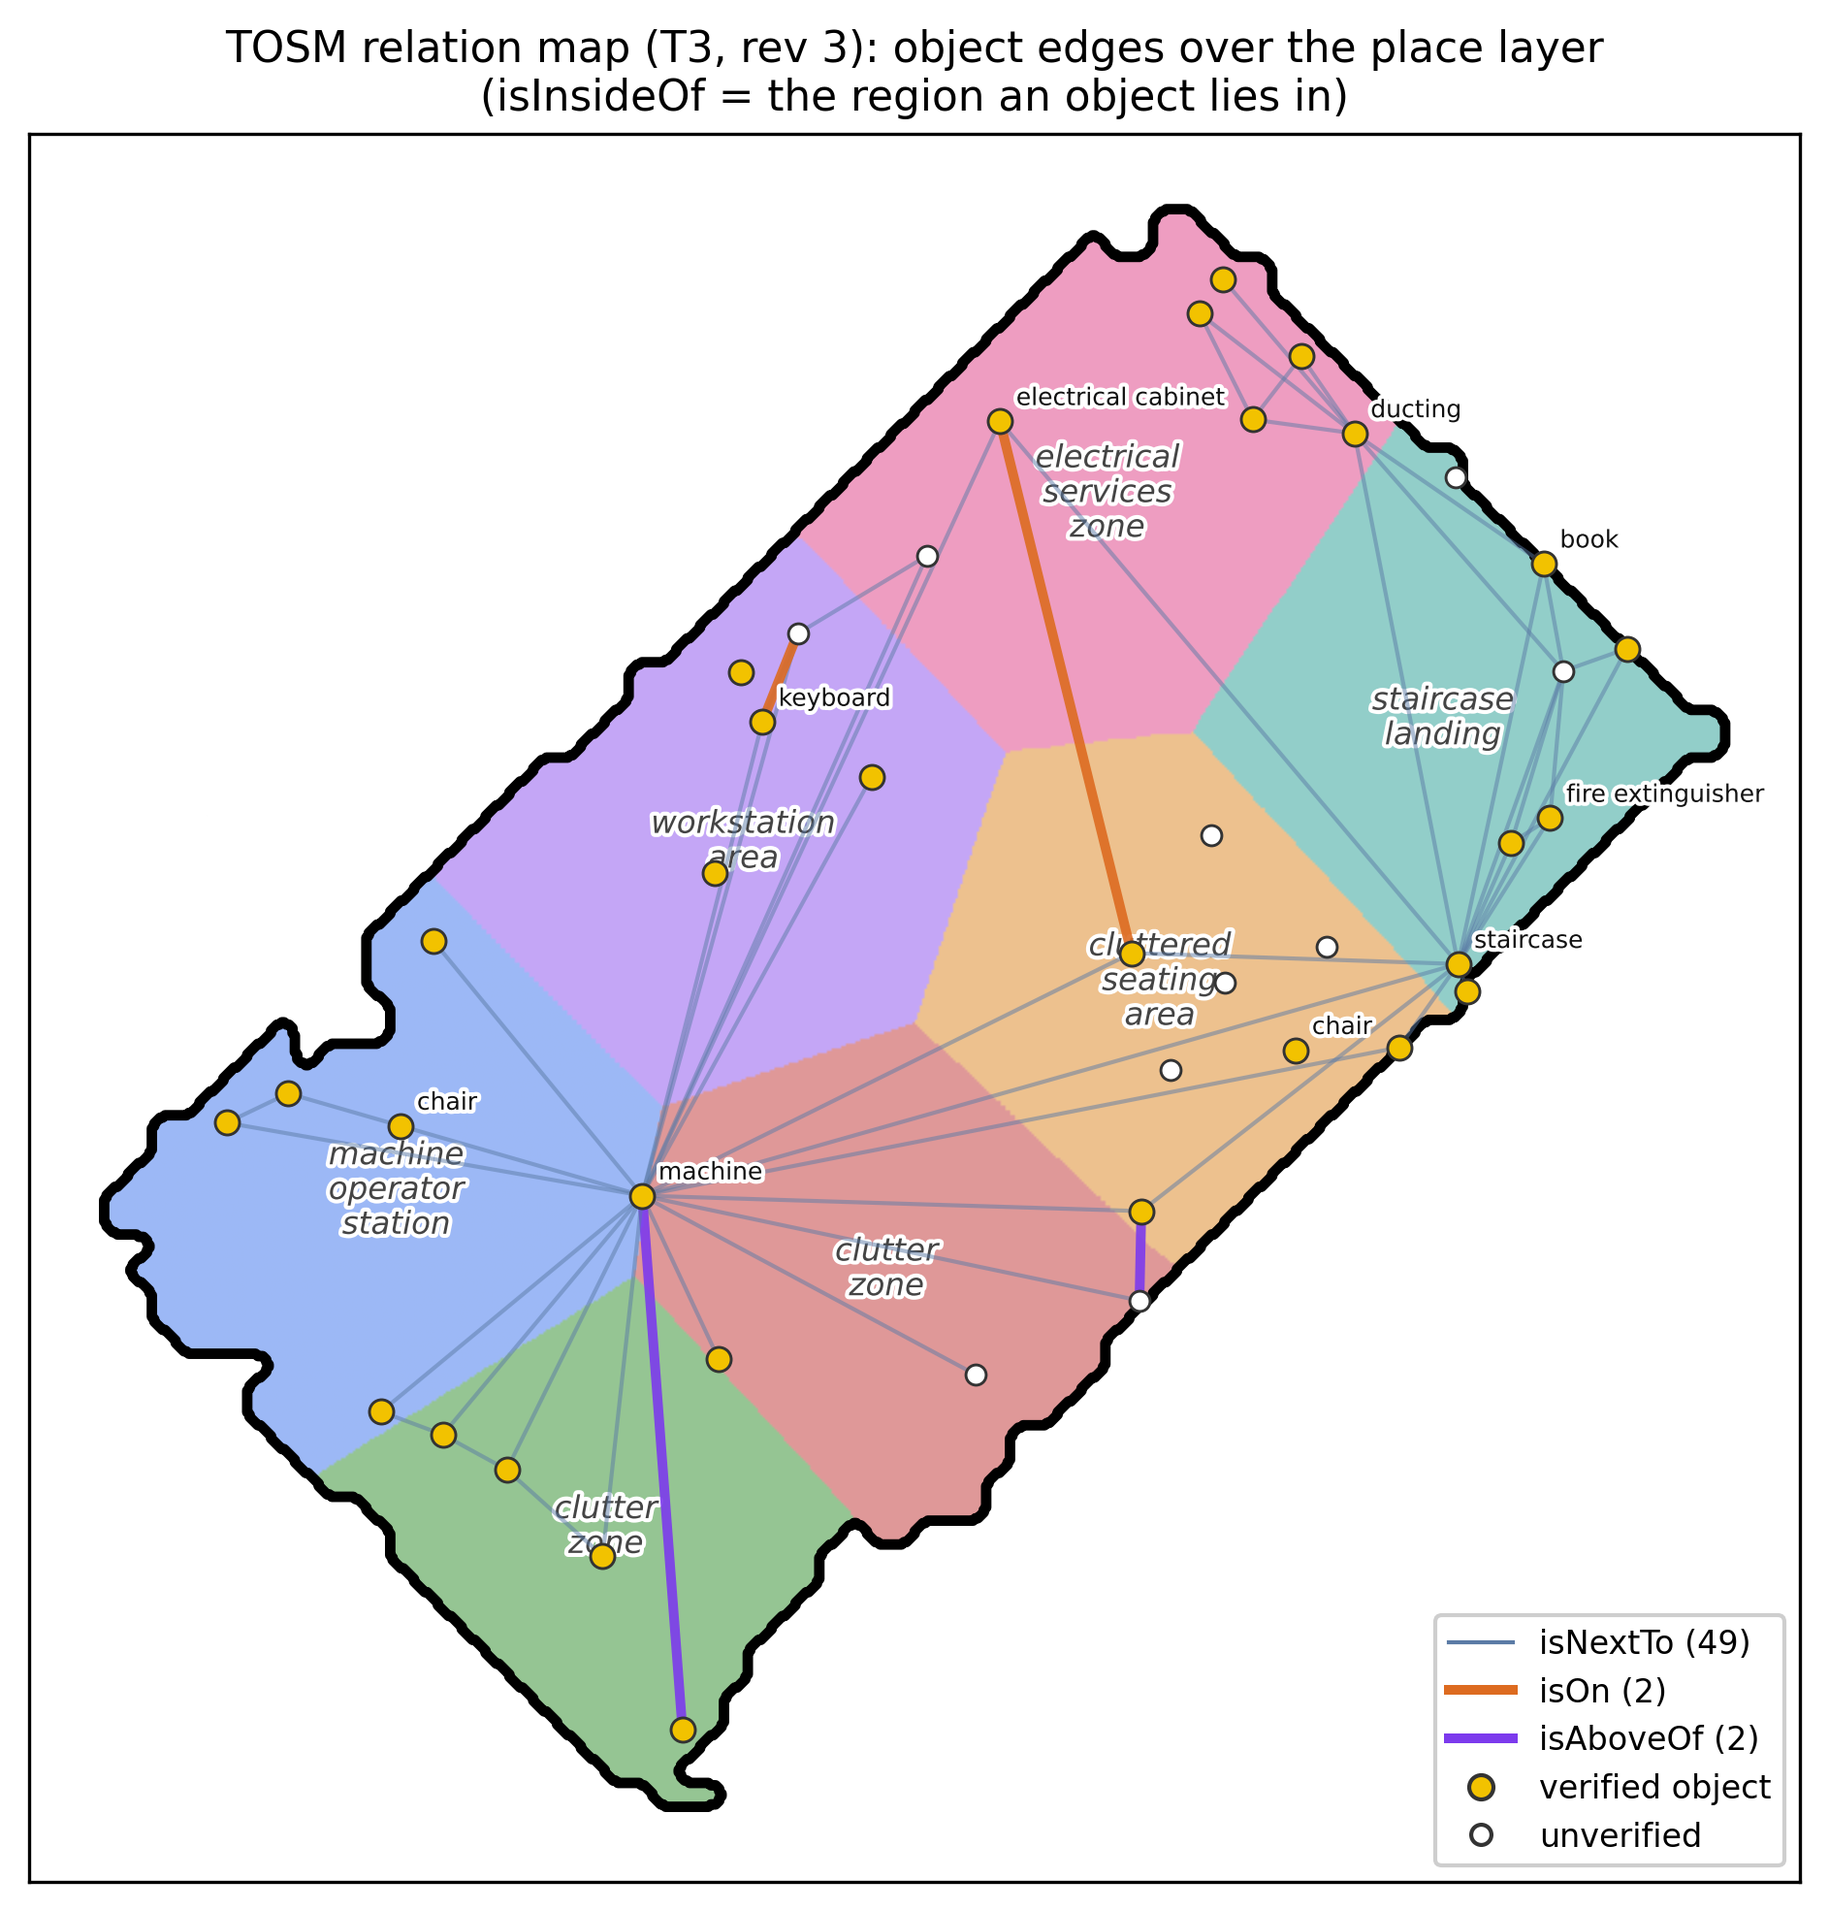
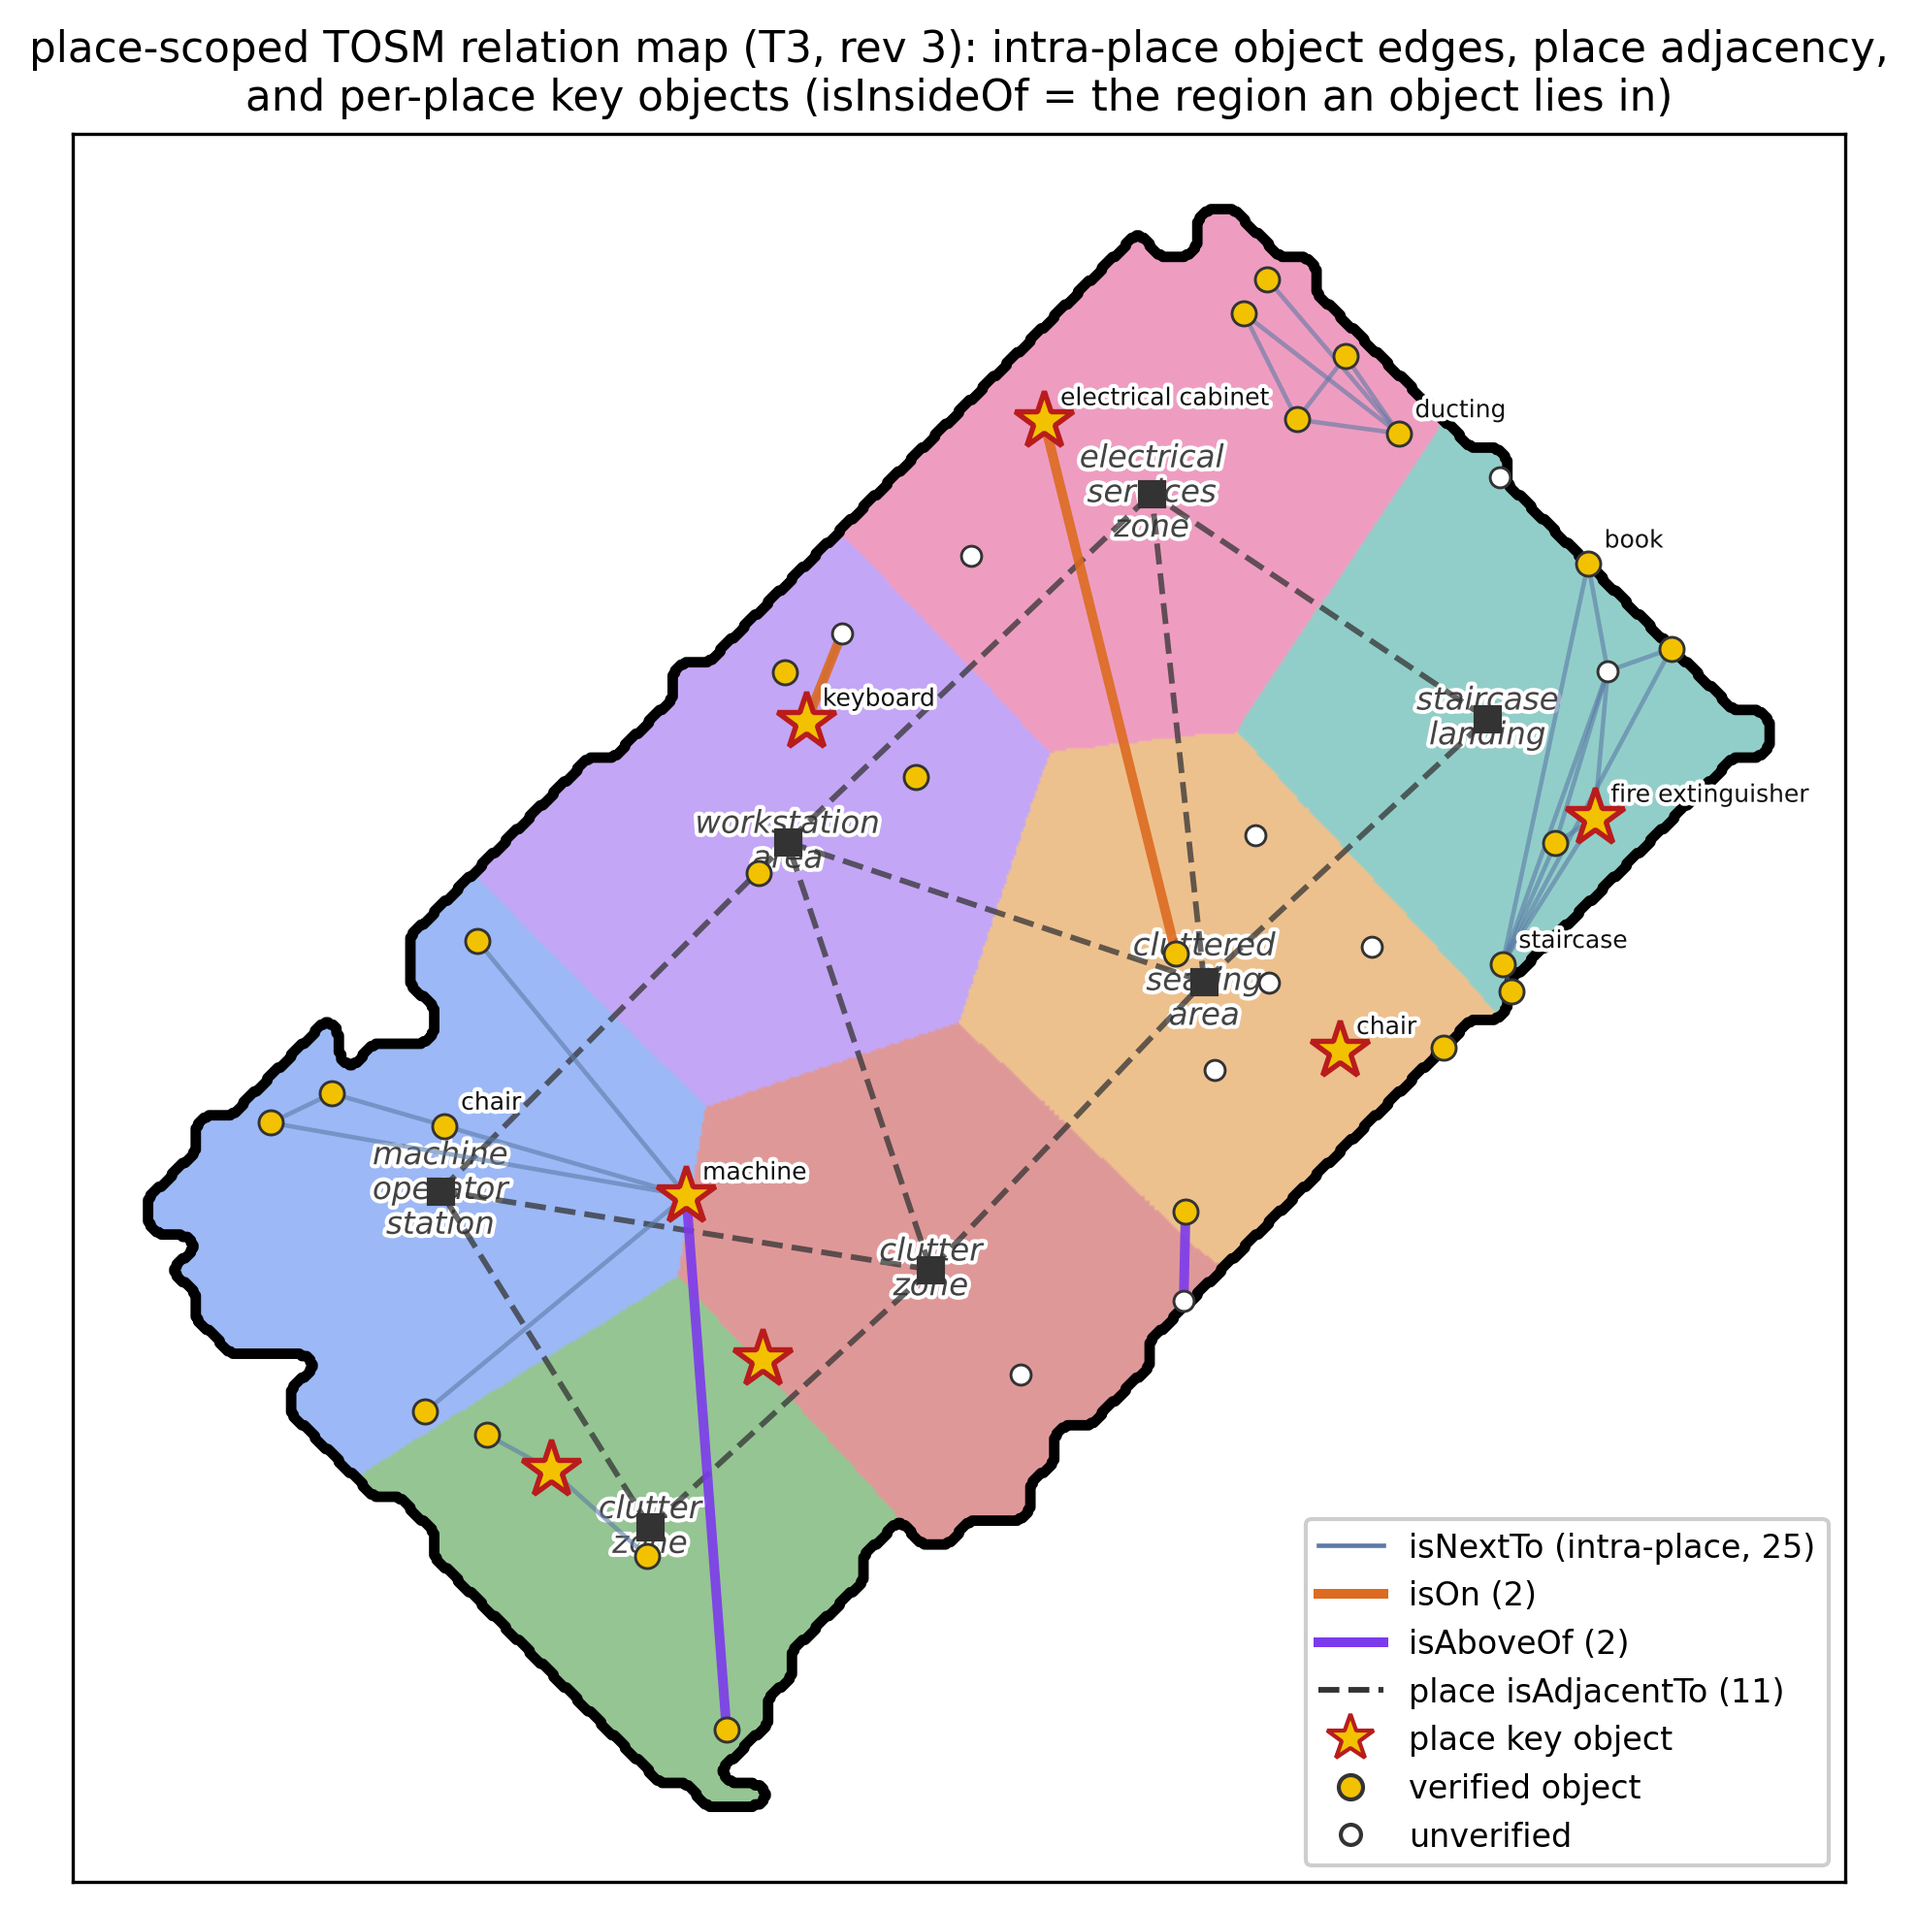
Place-scoped relations: intra-place isNextTo (25, drops 24 cross-place spokes), place isAdjacentTo (11), per-place key objects; fig12 v3 + 4.6 text

diff --git a/docs/electronics2026/manuscript/sec4_methodology.tex b/docs/electronics2026/manuscript/sec4_methodology.tex
@@ -181,8 +181,16 @@ provenance (per-view votes, fused share, escalation flag, model version), a
 per-revision history of every change, and \texttt{firstSeen}/\texttt{lastSeen}
 timestamps. Edges (spatial relations---\texttt{isNextTo}, \texttt{isOn},
 \texttt{isAboveOf}---recomputed from explicit models) are scoped to the map
-and revision; Fig.~\ref{fig:relmap} shows the resulting relation-annotated
-map at T3. The result is exported both as a canonical
+and revision, and organized by the place layer: \texttt{isNextTo} is kept
+only between objects of the same place (proximity across a place boundary
+is expressed at the place level as \texttt{isAdjacentTo}), vertical
+relations are kept regardless, and each place designates a key object
+(the VLM's implicit \texttt{isKeyObject} among verified members, falling
+back to the most confident specific-type verified member). On the T3
+epoch this scoping removes 24 of 49 raw proximity edges---long
+cross-place spokes centered on the largest cluster---leaving 25
+intra-place edges over 11 place adjacencies; Fig.~\ref{fig:relmap} shows
+the resulting map. The result is exported both as a canonical
 JSON graph and as mapId-scoped Neo4j Cypher, so multiple sites and epochs
 coexist in one database. Because unchanged objects reproduce byte-identical
 clusters (Sec.~\ref{sec:decomposition}), their verification results are
@@ -193,12 +201,12 @@ measurement, Sec.~5.5).
 \begin{figure}[t]
 \centering
 \includegraphics[width=0.85\linewidth]{fig12_relations_map.png}
-\caption{Relation-annotated TOSM map (T3): \texttt{isNextTo},
-\texttt{isOn}, and \texttt{isAboveOf} edges recomputed from the explicit
-models at every revision, drawn over the place layer of
-Fig.~\ref{fig:placemap} (pastel)---object--place containment
-(\texttt{isInsideOf}) is the region an object lies in---with verified
-(filled) and unverified (open) object nodes.}
+\caption{Place-scoped TOSM relation map (T3) over the place layer of
+Fig.~\ref{fig:placemap} (pastel): intra-place \texttt{isNextTo} edges,
+vertical \texttt{isOn}/\texttt{isAboveOf} relations, dashed place
+\texttt{isAdjacentTo} edges between region centroids, and per-place key
+objects (stars). Object--place containment (\texttt{isInsideOf}) is the
+region an object lies in.}
 \label{fig:relmap}
 \end{figure}
 
